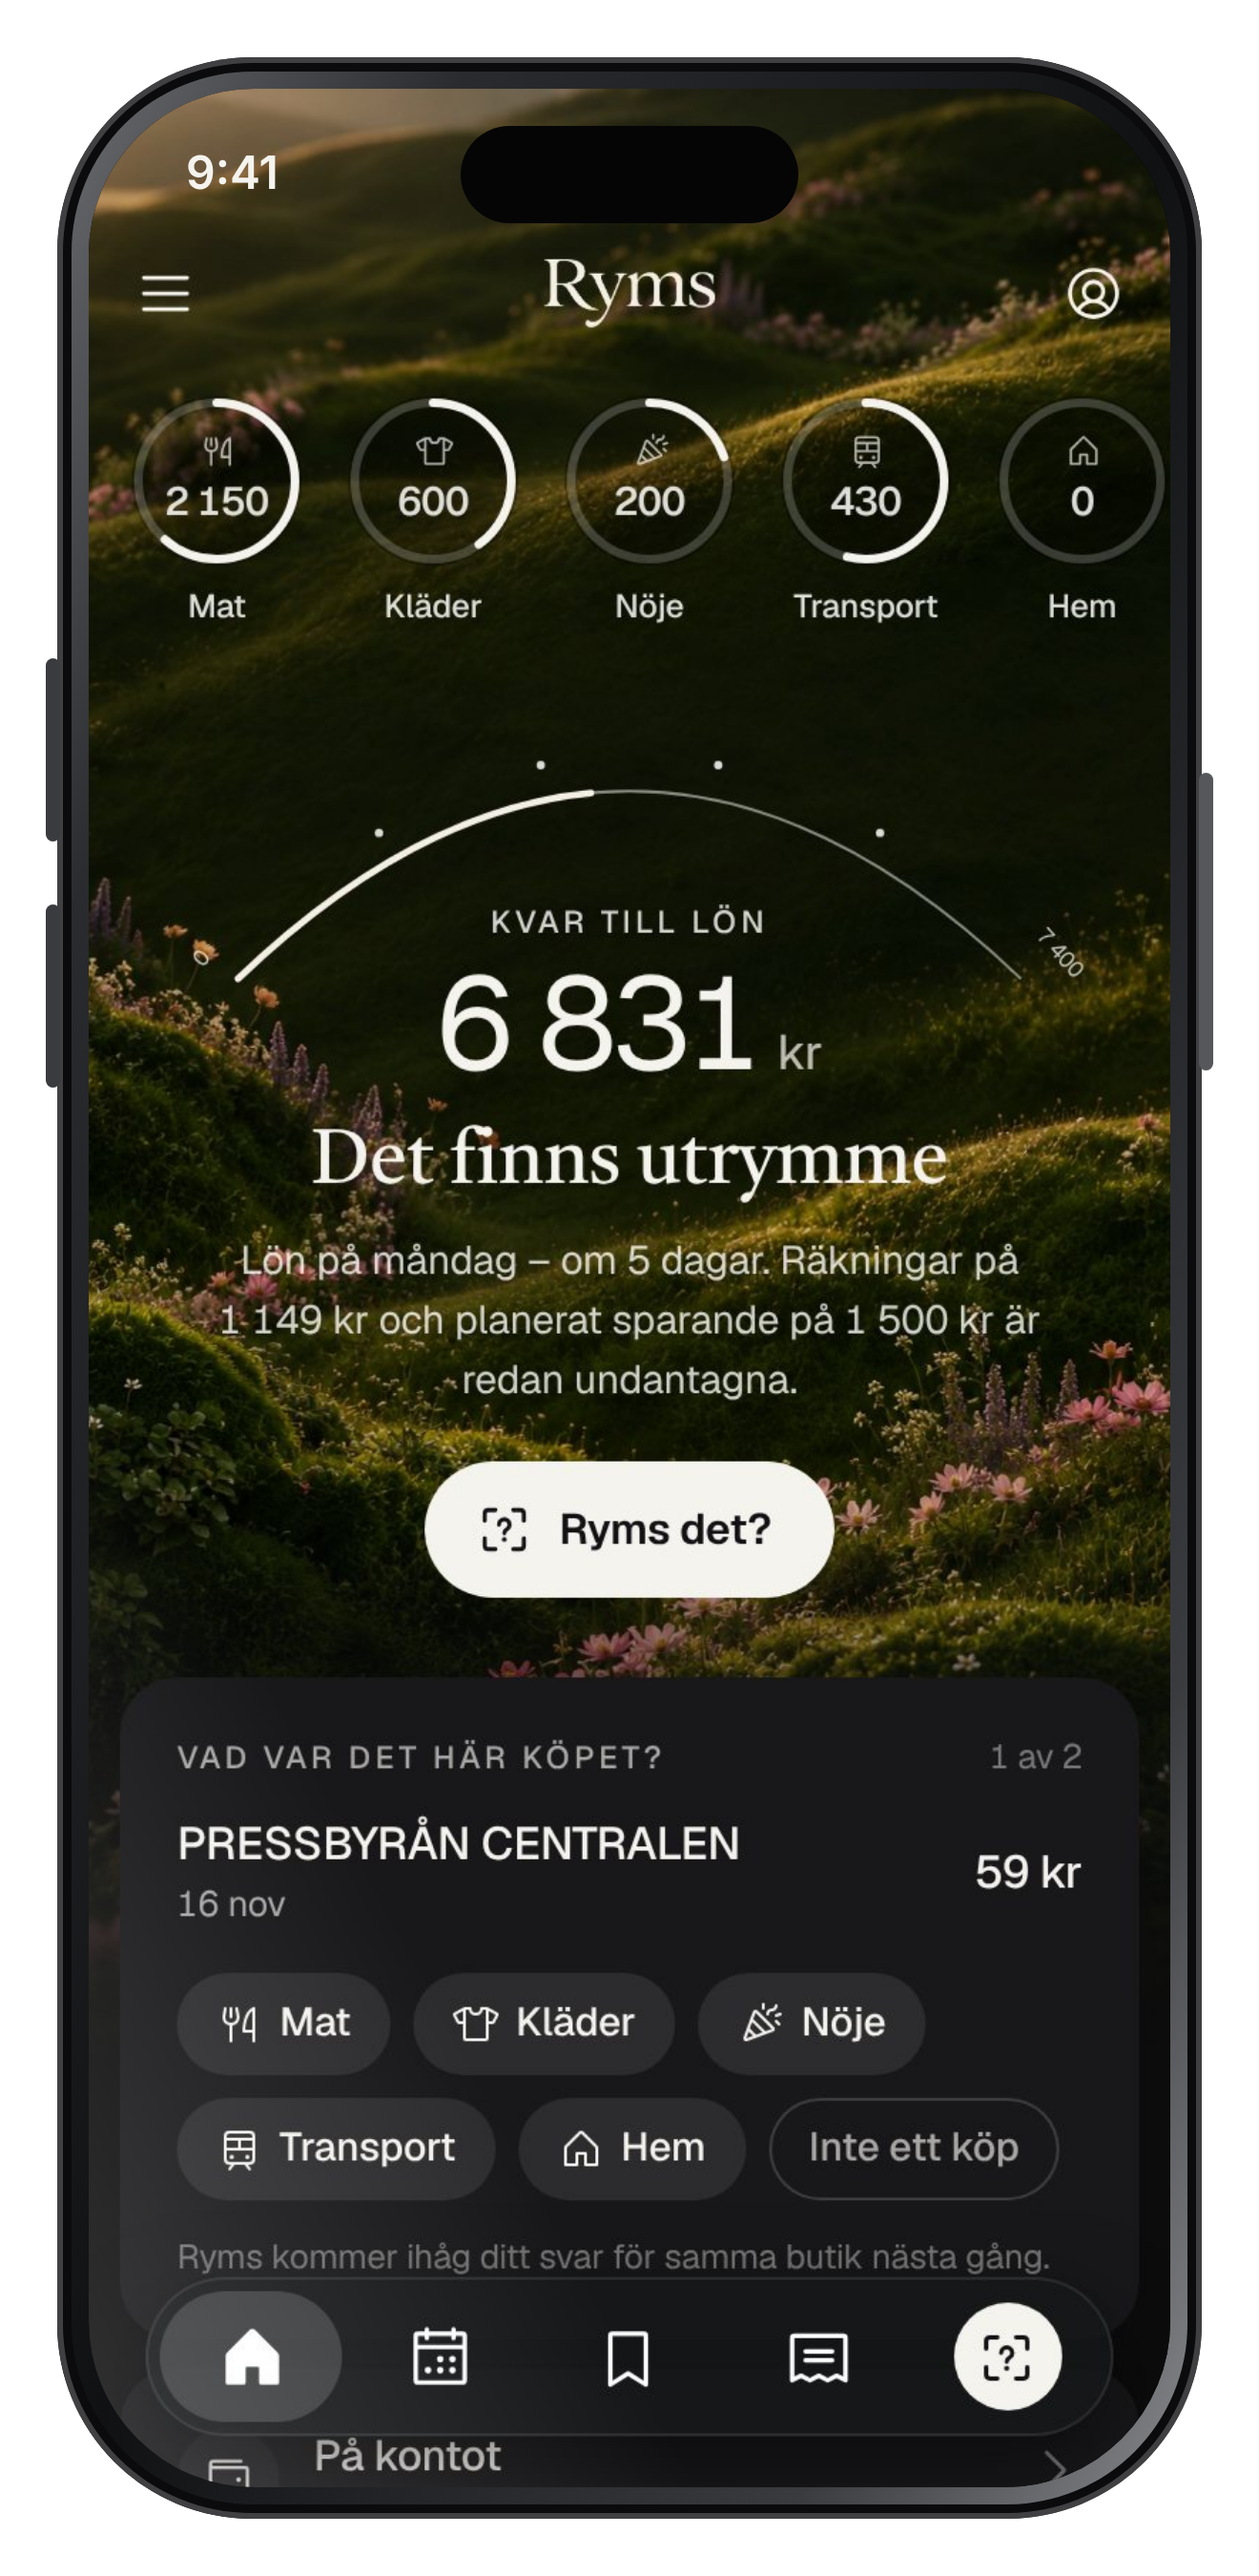
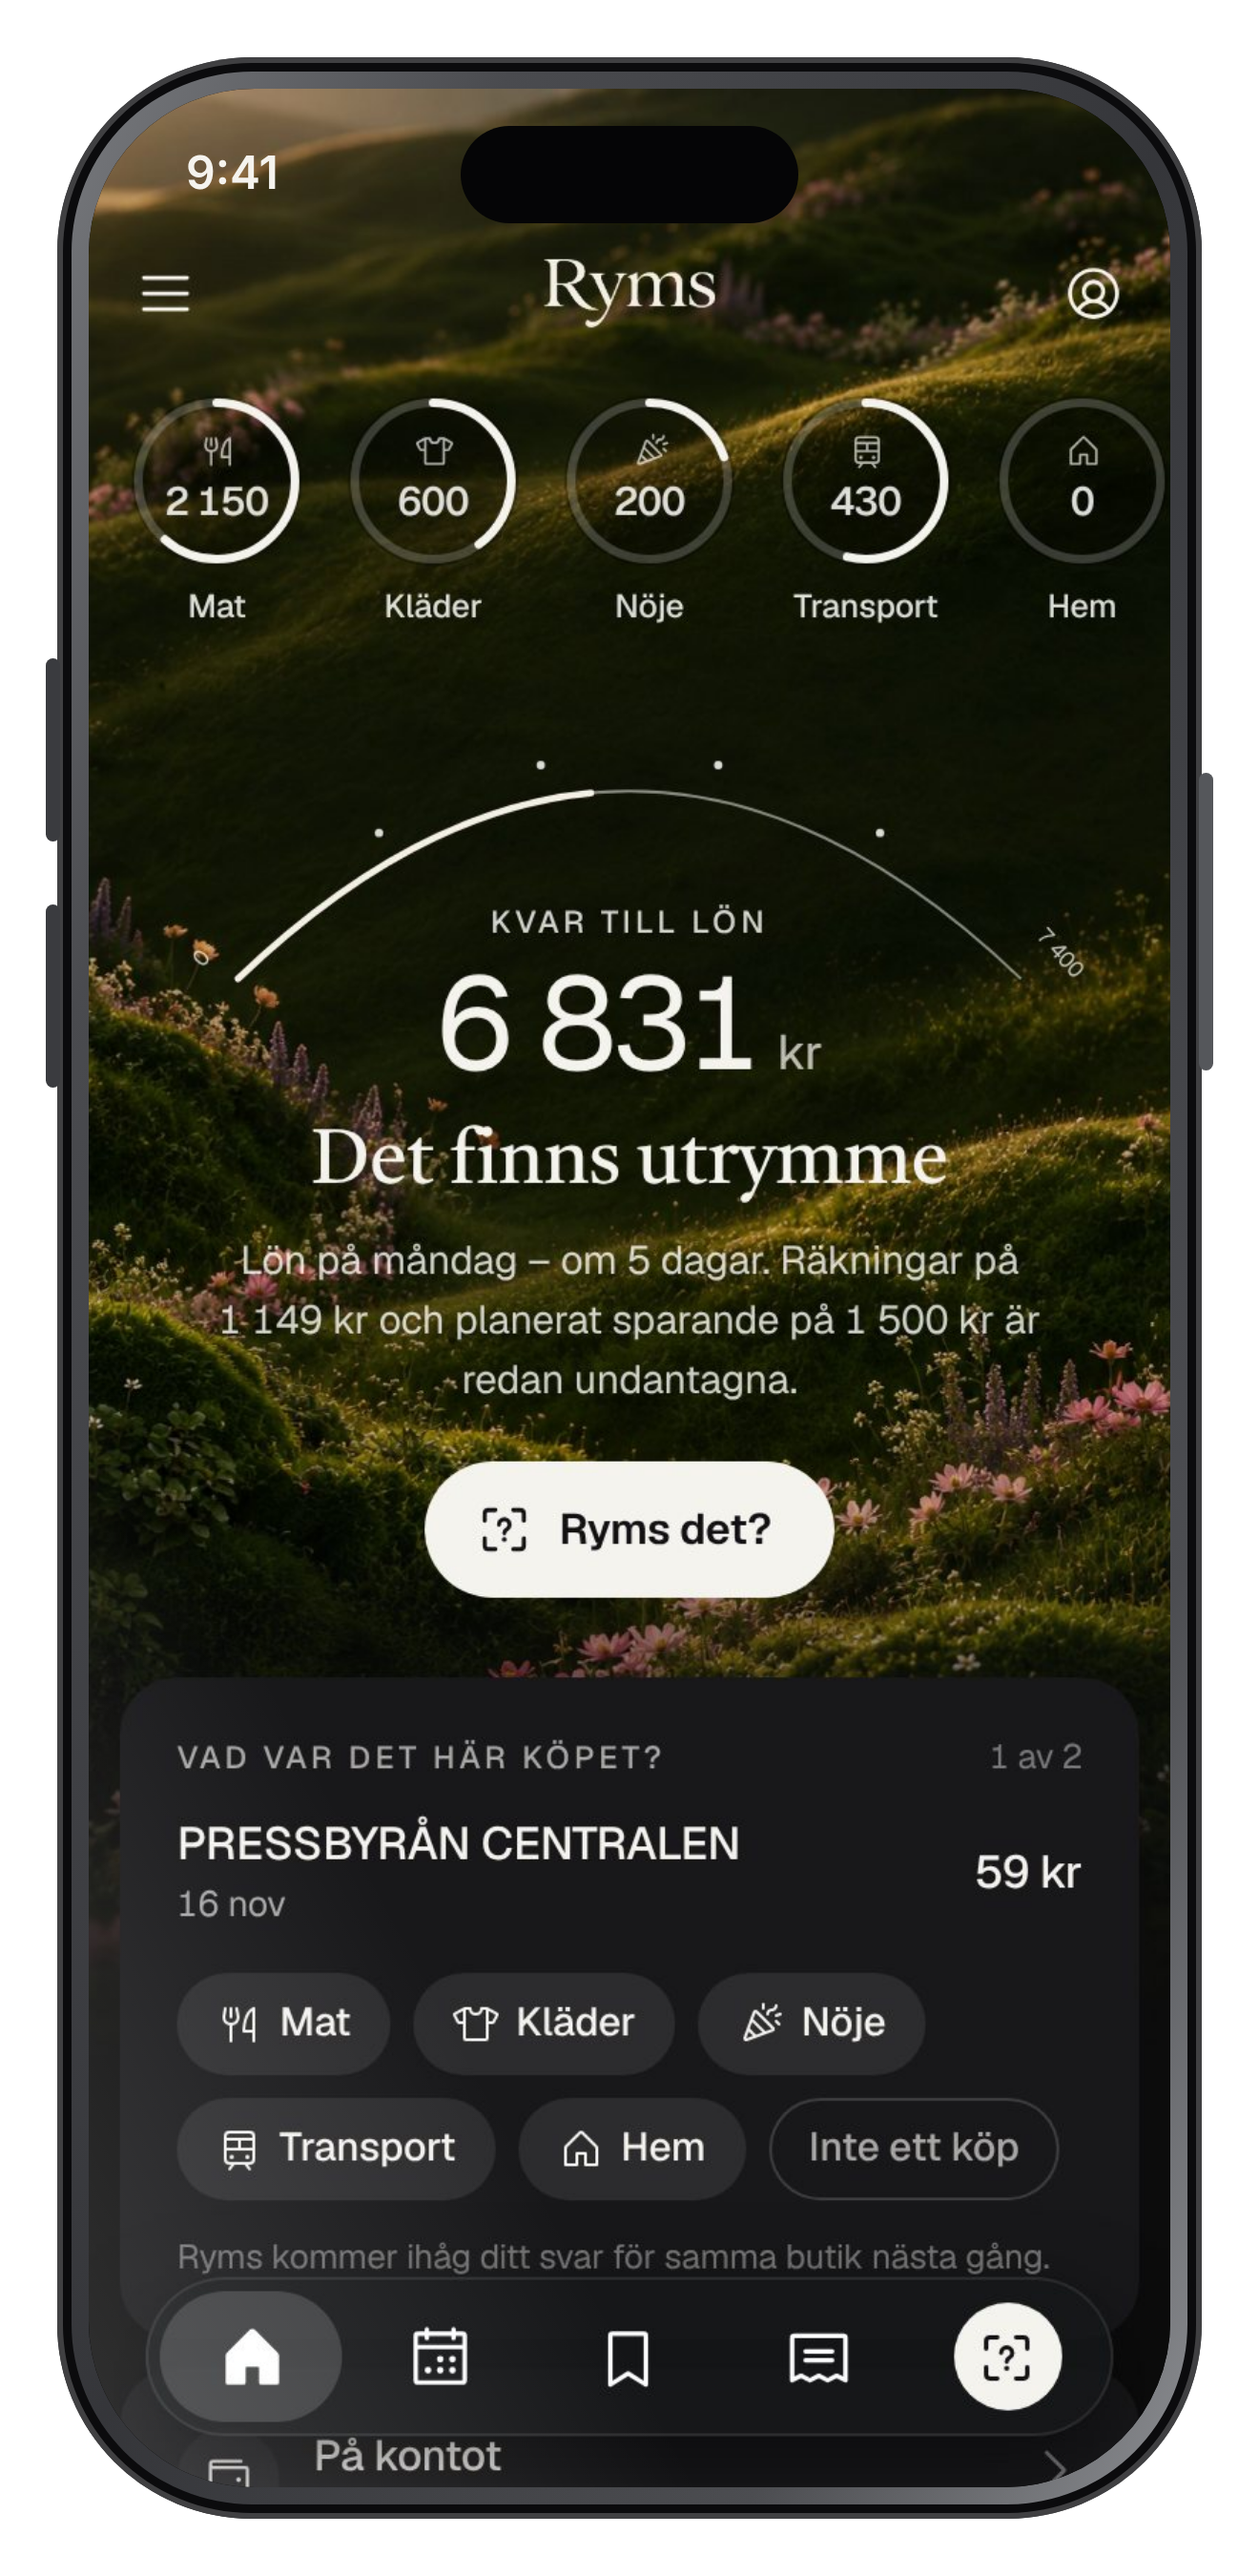
Landningssida: mörkgrå telefon placerad enligt förlagan, bakom lavendeln
Claude-Session: https://claude.ai/code/session_01GAD7svFHpQ8hFb5MfyqAze

Changed region(s): [[0.1864, 0.0, 0.9629, 0.4978], [0.0311, 0.1556, 0.1553, 0.9644], [0.1553, 0.9644, 0.497, 0.9956]]

diff --git a/scripts/landing-hero.py b/scripts/landing-hero.py
@@ -12,33 +12,18 @@ ROOT = os.path.dirname(os.path.dirname(os.path.abspath(__file__)))
 A = lambda *p: os.path.join(ROOT, *p)
 K = 2  # arbetsskala
 
-# Telefonens läge i originalbilden (1143 x 1996), överfört från skissen:
-CX, CY = 497, 790       # mittpunkt
-LENGTH = 268            # längd längs telefonen (förkortad eftersom den lutar bakåt)
-W_TOP, W_BOT = 150, 170  # bredd upptill (längre bort) och nedtill
-LEAN = 15               # grader: toppen åt vänster
-ROLL = -8               # grader: högerkanten något högre
-
 marked = Image.open(A("assets/landing/spiral-marked.jpg")).convert("RGB")
 clean = Image.open(A("assets/landing/spiral-clean.webp")).convert("RGB").resize(marked.size, Image.LANCZOS)
-m = np.array(marked).astype(int)
-red = ((m[..., 0] > 170) & (m[..., 1] < 75) & (m[..., 2] < 75)).astype(np.uint8) * 255
-redmask = Image.fromarray(red).filter(ImageFilter.MaxFilter(9)).filter(ImageFilter.GaussianBlur(2))
-base = Image.composite(clean, marked, redmask)
-base = base.resize((base.width * K, base.height * K), Image.LANCZOS).filter(ImageFilter.UnsharpMask(radius=2, percent=60, threshold=2))
+base = clean.resize((clean.width * K, clean.height * K), Image.LANCZOS).filter(ImageFilter.UnsharpMask(radius=2, percent=60, threshold=2))
 
-# Hörnen: axeln lutar LEAN grader från lodrätt, breddvektorn ROLL grader från vågrätt
-ax = (math.sin(math.radians(LEAN)), math.cos(math.radians(LEAN)))  # nedåt längs telefonen
-wx = (math.cos(math.radians(ROLL)), math.sin(math.radians(ROLL)))
-top = (CX - ax[0] * LENGTH / 2, CY - ax[1] * LENGTH / 2)
-bot = (CX + ax[0] * LENGTH / 2, CY + ax[1] * LENGTH / 2)
-quad = [
-    (top[0] - wx[0] * W_TOP / 2, top[1] - wx[1] * W_TOP / 2),
-    (top[0] + wx[0] * W_TOP / 2, top[1] + wx[1] * W_TOP / 2),
-    (bot[0] + wx[0] * W_BOT / 2, bot[1] + wx[1] * W_BOT / 2),
-    (bot[0] - wx[0] * W_BOT / 2, bot[1] - wx[1] * W_BOT / 2),
-]
-quad = [(x * K, y * K) for x, y in quad]
+# Telefonens fyra hörn, avlästa ur förlagan assets/landing/phone-placement.png (878 x 1536):
+# vänster-upp, höger-upp, höger-ned, vänster-ned.
+REF_W = 878
+pts = [(280, 503), (377, 500), (441, 716), (347, 729)]
+f = marked.width / REF_W
+cx, cy = sum(p[0] for p in pts) / 4, sum(p[1] for p in pts) / 4
+quad = [(x * f * K, y * f * K) for x, y in pts]
+CX, CY = cx * f, cy * f
 
 phone = Image.open(A("assets/landing/phone.png")).convert("RGBA")
 phone = phone.crop(phone.getbbox())
@@ -79,15 +64,22 @@ edge.paste(alpha, (-3 * K, 4 * K))
 out = Image.composite(Image.new("RGB", base.size, (26, 28, 30)), out, edge)
 out.paste(layer, (0, 0), layer)
 
-# Telefonen ligger framför blommorna. Bara lavendelns toppar allra längst ned får sticka upp framför foten.
+# Blommorna runt telefonen ska ligga framför dess kanter, som i ett foto: lavendel och orange blommor
+# (inte den mörka grenen, som telefonen vilar mot), plus växtligheten allra längst ned vid foten.
 b = np.array(base).astype(int)
+R, G, B = b[..., 0], b[..., 1], b[..., 2]
+lavender = (B > G + 14) & (R > G - 4) & (R + G + B > 200)
+poppy = (R > 170) & (G > 70) & (G < 175) & (B < 110) & (R > G + 40)
+pale = (R > 150) & (G > 120) & (B > 110) & (R > B + 12) & (np.abs(b - np.median(b[: 200 * K : 7, :: 7].reshape(-1, 3), axis=0)).sum(axis=2) > 70)
+flowers = Image.fromarray(((lavender | pale) * 255).astype(np.uint8)).filter(ImageFilter.MedianFilter(5)).filter(ImageFilter.MaxFilter(5)).filter(ImageFilter.GaussianBlur(1.6))
 sky = np.median(b[: 200 * K : 7, :: 7].reshape(-1, 3), axis=0)
 foliage = ((np.abs(b - sky).sum(axis=2) > 95) | (b.sum(axis=2) < sky.sum() - 110)).astype(np.uint8) * 255
 fol = Image.fromarray(foliage).filter(ImageFilter.MedianFilter(5)).filter(ImageFilter.GaussianBlur(1.2))
 ys = np.arange(base.height)[:, None]
 y_bot = max(q[1] for q in quad)
-ramp = np.clip((ys - (y_bot - 20 * K)) / (14 * K), 0, 1) * np.ones((1, base.width))
-front = ImageChops.multiply(fol, Image.fromarray((ramp * 255).astype(np.uint8)))
+ramp = np.clip((ys - (y_bot - 30 * K)) / (20 * K), 0, 1) * np.ones((1, base.width))
+foot = ImageChops.multiply(fol, Image.fromarray((ramp * 255).astype(np.uint8)))
+front = ImageChops.lighter(flowers, foot)
 out = Image.composite(base, out, front)
 
 W = 2000
